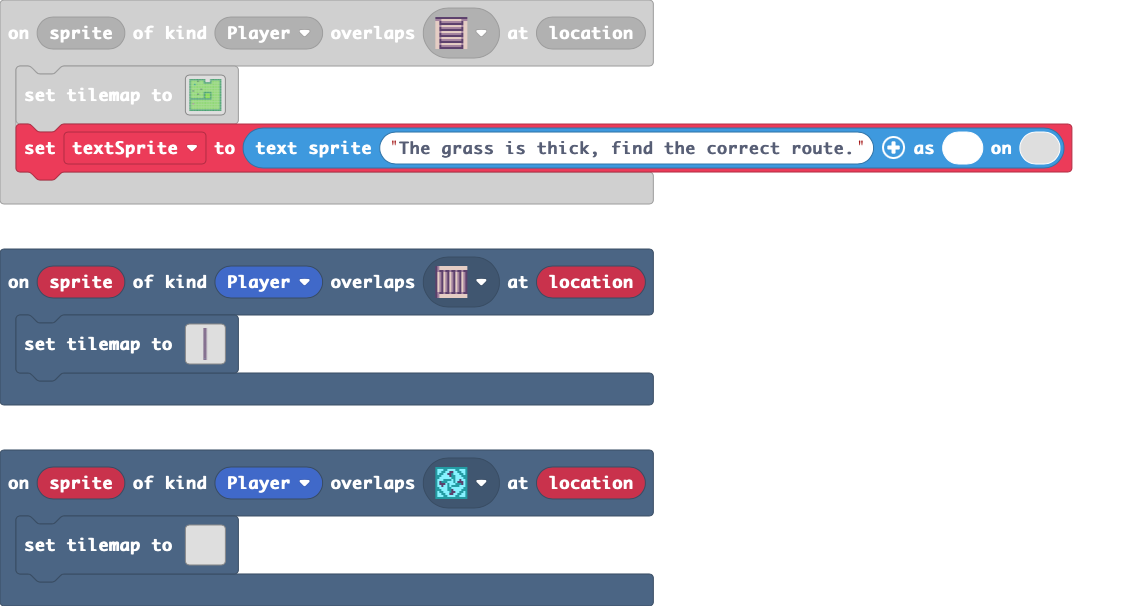
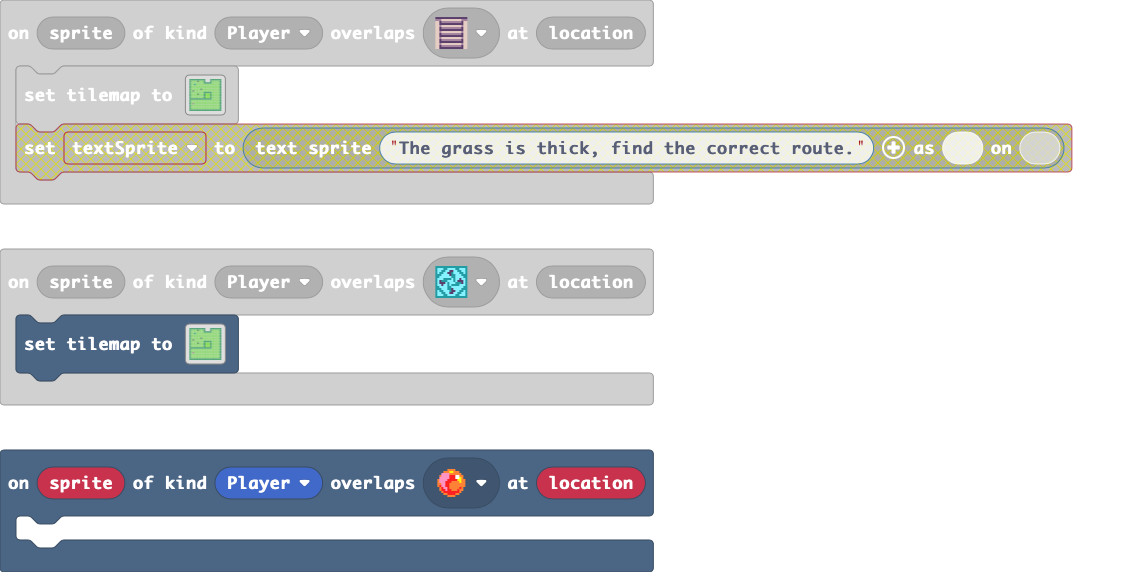
Update main.blocks, main.ts, tilemap.g.jres, tilemap.g.ts

diff --git a/tilemap.g.ts b/tilemap.g.ts
@@ -83,59 +83,6 @@ namespace myTiles {
 ....................
 ....................
 `, [myTiles.transparency16,sprites.castle.tilePath5], TileScale.Sixteen);
-            case "level5":
-            case "level5":return tiles.createTilemap(hex`0500320001010101010101010101010101010101010101010101010101010101010101010101010101010101010101010101010101010101010101010101010101010101010101010101010101010101010101010101010101010101010101010101010101010101010101010101010101010101010101010101010101010101010101010101010101010101010101010101010101010101010101010101010101010101010101010101010101010101010101010101010101010101010101010101010101010101010101010101010101010101010101010101010101010101010101010101010101010101010101010102010101010101010101010101`, img`
-. . . . . 
-. . . . . 
-. . . . . 
-. . . . . 
-. . . . . 
-. . . . . 
-. . . . . 
-. . . . . 
-. . . . . 
-. . . . . 
-. . . . . 
-. . . . . 
-. . . . . 
-. . . . . 
-. . . . . 
-. . . . . 
-. . . . . 
-. . . . . 
-. . . . . 
-. . . . . 
-. . . . . 
-. . . . . 
-. . . . . 
-. . . . . 
-. . . . . 
-. . . . . 
-. . . . . 
-. . . . . 
-. . . . . 
-. . . . . 
-. . . . . 
-. . . . . 
-. . . . . 
-. . . . . 
-. . . . . 
-. . . . . 
-. . . . . 
-. . . . . 
-. . . . . 
-. . . . . 
-. . . . . 
-. . . . . 
-. . . . . 
-. . . . . 
-. . . . . 
-. . . . . 
-. . . . . 
-. . . . . 
-. . . . . 
-. . . . . 
-`, [myTiles.transparency16,sprites.dungeon.darkGroundCenter,sprites.dungeon.collectibleInsignia], TileScale.Sixteen);
             case "level6":
[1 lines of base64/hex data omitted]
 . . . . . . . . . . 
@@ -149,6 +96,59 @@ namespace myTiles {
 . . . . . . . . . . 
 . . . . . . . . . . 
 `, [myTiles.transparency16], TileScale.Sixteen);
+            case "level5":
+            case "level5":return tiles.createTilemap(hex`3200320001010101010101010101010101010101010101010101010101010101010101010101010101010101010101010101010101010101010101010101010101010101010101010101010101010101010101010101010101010101010101010101010101010101010101010101010101010101010101010101010101010101010101010101010101010101010101010101010101010101010101010101010101010101010101010101010101020101010101010101010101010101010101010101010101010101010101010101010101010101010101010101010101010101010101010101010101010101010101010101010101010101010101010101010101010104010101010101010101010101010101010101010101010101010101010101010101010101010101010101010101010101010101010101010101010101010101010101010101010104010101010101010101010101010101010101010101010101010101010101010101010101010101010101010101010101010101010101010101010101010101010101010101010101010101010101010101010101010101010101010101010101010101010101010101010101010101010101010101010101010101010101010101010101010101010101010101010101010101010101010101010101010101010101010101010101010101010101010101010101010101010101010101010101010101010101010101010101010101010101010101010101010101010101010101010101010101010101010101010101010101010101010101010101010101010101010101010101010101010101010101010101010101010101010101010101010101010101010101010101010101010101010101010101010101010101010101010101010101010101010101010101010101010101010101010101010101010101010101010101010101010101010101010101010101010101010101010101010101010101010101010101010101010101010101010101010101010101010101010101010101010101010101010101010101010101010101010101010101010101010101010101010101010101010101010101010101010101010101010101010101010101010101010101010101010101010101010101010101010101010101040101010101010101010101010101010101010101010101010101010101010101010101010101010101010101010101010101010101010101010101010101010101010101010101010101010101010101010101010101010101010101010101010101010101010101010101010101010101010101010101010101010101010101010101010101010101010101010101010101010101010101010101010101010101010101010101010101010101010101010401010101010101010101010101010101010101010101010101010101010101010101010101010101010101010101010101010101010101010101010101010101010101010101010101010101010101010101010101010101010101010101010101010101010101010101010101010101010101010101010101010101010101010101010101010101010101010101010101010101010101010101010101010101010101010101010101010101010101010101010101010101010101010101010101010101010101010101010101010101010101010101010101010101010101010101010101010101010101010101010101010101010101010101010101010101010101010101040101010101010101010101010101010101010101010101010101010101010101010101010101010101010101010101010101010101010101010101010101010101010101010101010101010101010101010101010101010101010101010101010101010101010101010101010101010101010101010101010101010101010101010101010101010101010101010101010101010101010101010101010101010101010101010101010101010401010101010101010101010101010101010101010101010101010101010101010101010101010101010101010101010101010101010101010101010101010101010101010101010101010101010101010101010101010101010101010101010101010101010101010101010101010101010101010101010101010101010101010101010101010101010101010101010101010101010101010101010101010101010101010101010101010101010101010101010101010101010101010101010101010101010101010101010101010101010101010101010101010101010101010101010101010101010101010101010101010101010101010101010101010101010101010101010101010101010101010101010101010101010101010101010101010101010101010101010101010101010101010101010101010101010401010101010101010101010101010101010101010101010101010101010101010101010101010101010101010101010101010101010101010101010101010101010101010101010101010101010101010101010101010101010101010101010101010101010101010101010101010101010101010101010101010101010101010101010101010101010101010101010101010101010101010101010101010101010101010101010101010101010101010101010101010101010101010101010101010101010101010101010101010101010101010101010101010101010101010101010101010101010101010101010101010101010101010101010101010101010101010101010101010101010101010101010301010101010101010101010101010101010101010101010101010101010101010101010101010101010101010101010101010101010101010101010101010101010101010101010101010101010101010101010101010101010101010101010101010101010101010101010101010101010101010101010101010101010101010101010101010101010101010101010101010101010101010101010101010101010101010101010101010101010101010101010101010101010101010101010101010101010101010101010101010101010101010101010101010101010101010101010101010101010101010101010101010101010101010101010101010101010101010101010101010101010101010101010101010101010101010101010101010101010101010101010101010101010101010101010101010101010101010101010101010101010101010101010101010101010101010101010101010101010101010101010101010101010101010101010101010101010101010101010101010101010101010101010101010101010101010101010101010101010101010101010101010101010101010101010101010101010101010101010101010101010101`, img`
+..................................................
+..................................................
+..................................................
+..................................................
+..................................................
+..................................................
+..................................................
+..................................................
+..................................................
+..................................................
+..................................................
+..................................................
+..................................................
+..................................................
+..................................................
+..................................................
+..................................................
+..................................................
+..................................................
+..................................................
+..................................................
+..................................................
+..................................................
+..................................................
+..................................................
+..................................................
+..................................................
+..................................................
+..................................................
+..................................................
+..................................................
+..................................................
+..................................................
+..................................................
+..................................................
+..................................................
+..................................................
+..................................................
+..................................................
+..................................................
+..................................................
+..................................................
+..................................................
+..................................................
+..................................................
+..................................................
+..................................................
+..................................................
+..................................................
+..................................................
+`, [myTiles.transparency16,sprites.dungeon.darkGroundCenter,sprites.dungeon.collectibleInsignia,sprites.dungeon.collectibleRedCrystal,sprites.castle.saplingPine], TileScale.Sixteen);
         }
         return null;
     })

diff --git a/main.ts b/main.ts
@@ -4,17 +4,18 @@ scene.onOverlapTile(SpriteKind.Player, sprites.builtin.forestTiles0, function (s
 scene.onOverlapTile(SpriteKind.Player, sprites.dungeon.stairEast, function (sprite, location) {
     tiles.setTilemap(tilemap`level5`)
 })
+scene.onOverlapTile(SpriteKind.Player, sprites.dungeon.collectibleRedCrystal, function (sprite, location) {
+	
+})
 scene.onOverlapTile(SpriteKind.Player, sprites.dungeon.stairLarge, function (sprite, location) {
     tiles.setTilemap(tilemap`level2`)
 })
 scene.onOverlapTile(SpriteKind.Player, sprites.dungeon.collectibleInsignia, function (sprite, location) {
-    tiles.setTilemap(tilemap`level6`)
+    tiles.setTilemap(tilemap`level3`)
 })
 scene.onOverlapTile(SpriteKind.Player, sprites.dungeon.stairSouth, function (sprite, location) {
     tiles.setTilemap(tilemap`level3`)
-    textSprite = textsprite.create("The grass is thick, find the correct route.")
 })
-let textSprite: TextSprite = null
 tiles.setTilemap(tilemap`level1`)
 let mySprite = sprites.create(img`
     . . . . f f f f f . . . . . . . 
